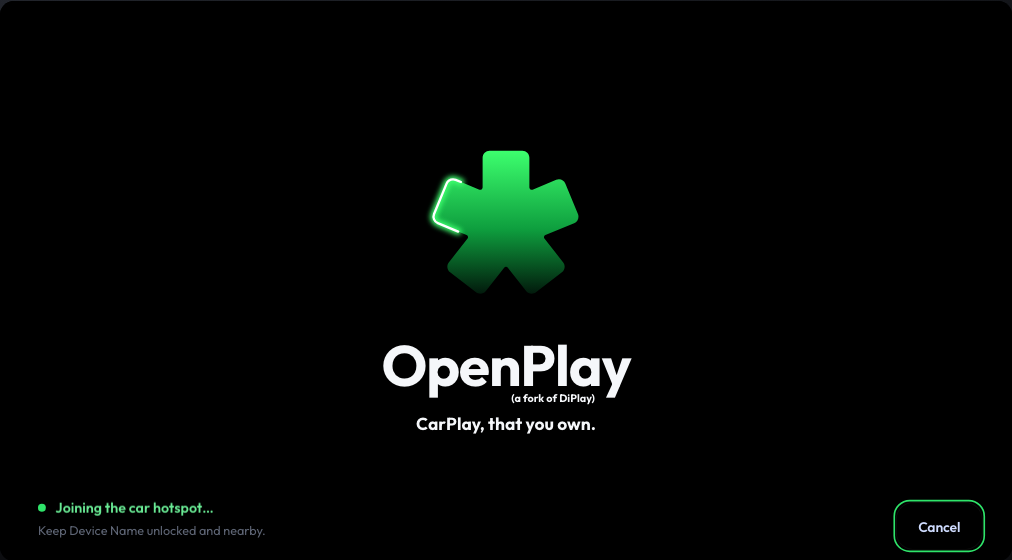
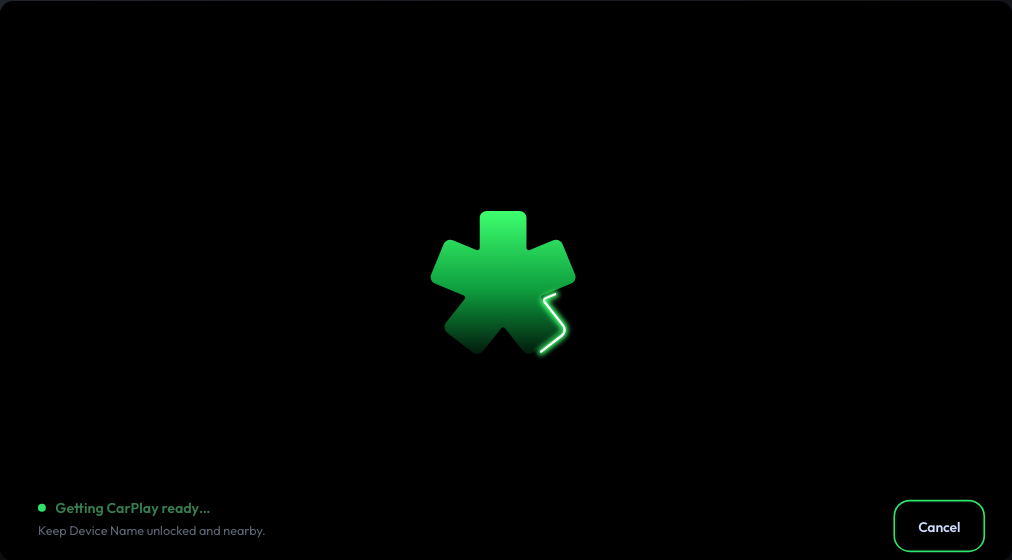
Show only the animated mark on the loading screen; crossfade status text
- The loading screen drops the OpenPlay wordmark. It is the animated mark
  alone, with the status bottom-left and Cancel bottom-right.
- At boot, when the splash turns into loading, the wordmark fades out and
  the mark glides to the centre.
- Status messages crossfade (160 ms out, 240 ms in) instead of sliding up.
- Morphs handle the missing twins:
  - Loading to Home: the mark flies to Home and the wordmark fades in.
  - Home to loading: only the mark moves; Home's wordmark fades out with
    the rest of Home. retire() now takes the list of shared parts.
- selftest.html checks that the loading screen has no wordmark.

Changed region(s): [[0.3676, 0.2429, 0.6433, 0.7893], [0.0613, 0.8804, 0.2144, 0.9411]]

diff --git a/design/ui-library/prototype.js b/design/ui-library/prototype.js
@@ -259,18 +259,45 @@
 
   /* ---------- Brand stage: splash and loading screen ---------- */
 
-  function brandStage(s, { filled, tone, text, loading }) {
-    const hint = s.connectionMode === "USB" ? "Keep the cable plugged in and the iPhone unlocked." : `Keep ${esc(s.iphone)} unlocked and nearby.`;
-    return `
-      <div class="scr-brand">
-        <div class="dp-splash${loading ? " is-loading" : ""}" data-dp-splash="${filled ? "filled" : ""}">
+  // The splash shows the wordmark; the loading screen is the animated mark alone.
+  const wordmarkAfter = () => `
           <div class="dp-splash__after dp-wordmark">
             <div class="dp-wordmark__lockup">
               <div class="dp-wordmark__name">OpenPlay</div>
               <div class="dp-wordmark__fork">(a fork of DiPlay)</div>
             </div>
             <div class="dp-wordmark__tagline">CarPlay, that you own.</div>
-          </div>
+          </div>`;
+
+  // Boot turning into loading: the wordmark fades out, then the mark glides to the centre.
+  function dropWordmark(splash) {
+    const after = splash.querySelector(".dp-splash__after");
+    if (!after) return;
+    const svg = splash.querySelector(".dp-splash__svg");
+    const reduce = matchMedia("(prefers-reduced-motion: reduce)").matches;
+    const settle = () => {
+      const before = svg.getBoundingClientRect();
+      after.remove();
+      const now = svg.getBoundingClientRect();
+      if (reduce) return;
+      // Rects are in screen pixels; the head-unit frame is scaled.
+      const screen = splash.closest(".hu__screen");
+      const k = screen ? screen.getBoundingClientRect().width / screen.offsetWidth : 1;
+      svg.animate([{ transform: `translateY(${(before.top - now.top) / (k || 1)}px)` }, { transform: "none" }], {
+        duration: 650,
+        easing: "cubic-bezier(0.22, 1, 0.36, 1)",
+      });
+    };
+    if (reduce) return settle();
+    after.animate([{ opacity: 1 }, { opacity: 0 }], { duration: 300, easing: "ease-out", fill: "forwards" }).finished.then(settle, settle);
+  }
+
+  function brandStage(s, { filled, tone, text, loading }) {
+    const hint = s.connectionMode === "USB" ? "Keep the cable plugged in and the iPhone unlocked." : `Keep ${esc(s.iphone)} unlocked and nearby.`;
+    return `
+      <div class="scr-brand">
+        <div class="dp-splash${loading ? " is-loading" : ""}" data-dp-splash="${filled ? "filled" : ""}">
+          ${loading ? "" : wordmarkAfter()}
         </div>
       </div>
       <div class="scr-corner">
@@ -282,15 +309,28 @@
       </div>`;
   }
 
+  // The status text crossfades to the next message: out 160ms, swap, in 240ms. A newer
+  // call cancels the running fade, and the latest text always wins.
   function setStatus(el, tone, text) {
     const line = el.querySelector(".dp-statusline");
     const label = line.querySelector(".dp-statusline__text");
     line.dataset.tone = tone;
-    if (label.textContent === text) return;
-    label.textContent = text;
-    label.classList.remove("is-changing");
-    void label.offsetWidth;
-    label.classList.add("is-changing");
+    label.dataset.next = text;
+    if (label.textContent === text && !label.getAnimations().length) return;
+    if (matchMedia("(prefers-reduced-motion: reduce)").matches) {
+      label.textContent = text;
+      return;
+    }
+    label.getAnimations().forEach((a) => a.cancel());
+    const out = label.animate([{ opacity: 1 }, { opacity: 0 }], { duration: 160, easing: "ease-in", fill: "forwards" });
+    out.finished.then(
+      () => {
+        label.textContent = label.dataset.next;
+        out.cancel();
+        label.animate([{ opacity: 0 }, { opacity: 1 }], { duration: 240, easing: "ease-out" });
+      },
+      () => {}, // cancelled by a newer message
+    );
   }
 
   // Runs the connection on a brand stage: stages tick through the corner status while the
@@ -300,6 +340,7 @@
     ctx.state.failed = false;
     const splash = el.querySelector(".dp-splash");
     splash.classList.add("is-loading");
+    dropWordmark(splash);
     el.querySelectorAll(".scr-corner[hidden], .scr-corner__hint[hidden]").forEach((c) => c.removeAttribute("hidden"));
     const cancel = el.querySelector('[data-act="cancel-connect"]');
     if (DP.focus.scope === el) DP.focus.set(cancel);
@@ -652,7 +693,14 @@
       for (const [a, b] of pairs) {
         const src = from.querySelector(a);
         const dst = to.querySelector(b);
-        if (!src || !dst) continue;
+        if (!dst) continue;
+        if (!src) {
+          // Coming from the icon-only loading screen: the wordmark has no twin, so it fades in.
+          dst.animate([{ opacity: 0, transform: "translateY(14px)" }, { opacity: 1, transform: "none" }], {
+            duration: 600, delay: 250, easing: "cubic-bezier(0.22, 1, 0.36, 1)", fill: "backwards",
+          });
+          continue;
+        }
         const r1 = src.getBoundingClientRect();
         const r2 = dst.getBoundingClientRect();
         const dx = (r1.left + r1.width / 2 - (r2.left + r2.width / 2)) / k;
@@ -695,14 +743,17 @@
     function morphHomeGsap(from) {
       const gsap = DP.libs.gsap;
       const Flip = window.Flip;
-      const text = [".dp-wordmark__name", ".dp-wordmark__fork", ".dp-wordmark__tagline"];
+      const all = [".dp-wordmark__name", ".dp-wordmark__fork", ".dp-wordmark__tagline"];
+      // The boot splash carries the wordmark; the icon-only loading screen does not.
+      const text = all.filter((sel) => from.querySelector(sel));
       text.forEach((sel, i) => (from.querySelector(sel).dataset.flipId = `wm-${i}`));
-      const flipState = Flip.getState(from.querySelectorAll("[data-flip-id]"));
+      const flipState = text.length ? Flip.getState(from.querySelectorAll("[data-flip-id]")) : null;
       const markFrom = from.querySelector(".dp-splash__fill").getBoundingClientRect();
 
       render("home", {}, { keep: from, enter: false, vt: false });
       const to = current;
       text.forEach((sel, i) => (to.querySelector(sel).dataset.flipId = `wm-${i}`));
+      const fadeIn = all.filter((sel) => !text.includes(sel)).map((sel) => to.querySelector(sel));
       const mark = to.querySelector(".dp-wordmark__mark");
       const markTo = mark.getBoundingClientRect();
       const k = host.getBoundingClientRect().width / host.offsetWidth || 1;
@@ -714,7 +765,8 @@
           gsap.set([mark, ...to.querySelectorAll("[data-flip-id]")], { clearProps: "transform,filter" });
         },
       });
-      tl.add(Flip.from(flipState, { targets: to.querySelectorAll("[data-flip-id]"), duration: 0.9, ease: "expo.out", scale: true }), 0);
+      if (flipState) tl.add(Flip.from(flipState, { targets: to.querySelectorAll("[data-flip-id]"), duration: 0.9, ease: "expo.out", scale: true }), 0);
+      if (fadeIn.length) tl.from(fadeIn, { opacity: 0, y: 14, duration: 0.6, stagger: 0.06, ease: "expo.out" }, 0.25);
       tl.fromTo(
         mark,
         {
@@ -736,20 +788,21 @@
     // The screen being left: its shared parts hide at once (their twins are flying), the
     // rest fades out over 300ms instead of vanishing, then it is removed.
     const SHARED = ".dp-splash__svg, .dp-wordmark__mark, .dp-wordmark__lockup > *, .dp-wordmark__tagline";
-    function retire(el) {
+    // `shared` names only the parts that have a twin on the next screen; anything without
+    // one (Home's wordmark when going to the icon-only loading screen) fades with the rest.
+    function retire(el, shared = SHARED) {
       el.classList.add("is-retiring");
       delete el.dataset.dpFocusScope;
-      el.querySelectorAll(SHARED).forEach((s) => (s.style.visibility = "hidden"));
+      el.querySelectorAll(shared).forEach((s) => (s.style.visibility = "hidden"));
       const done = () => el.remove();
       if (matchMedia("(prefers-reduced-motion: reduce)").matches) return done();
       el.animate([{ opacity: 1 }, { opacity: 0 }], { duration: 300, easing: "ease-out", fill: "forwards" }).finished.then(done, done);
     }
 
     /*
-     * Home -> loading screen: the reverse of the splash morph. The wordmark on the loading
-     * screen starts where it sits on Home and glides to the centre; the mark grows from its
-     * Home size. The device card and button fade with Home. Needs GSAP (Flip); without it
-     * the loading screen just slides in.
+     * Home -> loading screen. The loading screen is the mark alone, so only the mark moves:
+     * it grows from its Home size to the centre. Home's wordmark, device card and button
+     * fade out with Home. Needs GSAP; without it the loading screen just slides in.
      */
     function morphToLoading(params) {
       const from = current;
@@ -759,28 +812,22 @@
       if (reduce || !DP.libs.gsap || !from?.matches(".scr-home")) return render("connecting", params);
 
       const gsap = DP.libs.gsap;
-      const Flip = window.Flip;
-      const text = [".dp-wordmark__name", ".dp-wordmark__fork", ".dp-wordmark__tagline"];
-      text.forEach((sel, i) => (from.querySelector(sel).dataset.flipId = `wm-${i}`));
-      const flipState = Flip.getState(from.querySelectorAll("[data-flip-id]"));
       const markFrom = from.querySelector(".dp-wordmark__mark").getBoundingClientRect();
 
       render("connecting", params, { keep: from, enter: false, vt: false });
       const to = current;
-      text.forEach((sel, i) => (to.querySelector(sel).dataset.flipId = `wm-${i}`));
       const svg = to.querySelector(".dp-splash__svg");
       // The splash SVG is padded evenly round the mark, so its centre is the mark's centre.
       const markTo = to.querySelector(".dp-splash__fill").getBoundingClientRect();
       const k = host.getBoundingClientRect().width / host.offsetWidth || 1;
-      retire(from);
+      retire(from, ".dp-wordmark__mark");
 
       const tl = gsap.timeline({
         onComplete: () => {
           to.classList.remove("is-morphing");
-          gsap.set([svg, ...to.querySelectorAll("[data-flip-id]")], { clearProps: "transform" });
+          gsap.set(svg, { clearProps: "transform" });
         },
       });
-      tl.add(Flip.from(flipState, { targets: to.querySelectorAll("[data-flip-id]"), duration: 0.85, ease: "expo.out", scale: true }), 0);
       tl.fromTo(
         svg,
         {

diff --git a/design/ui-library/selftest.html b/design/ui-library/selftest.html
@@ -102,7 +102,7 @@ document.getElementById("f").addEventListener("load", async () => {
     const frame = d.getElementById("proto").getBoundingClientRect();
     const corner = line?.getBoundingClientRect();
     const bottomLeft = !!corner && corner.left - frame.left < frame.width * 0.1 && frame.bottom - corner.bottom < frame.height * 0.12;
-    log(!!loading?.querySelector(".dp-splash.is-loading") && line?.dataset.tone === "connecting" && bottomLeft, `Connect turns the splash into the loading screen, status bottom-left (${line?.dataset.tone}: ${line?.textContent.trim()})`);
+    log(!!loading?.querySelector(".dp-splash.is-loading") && !loading.querySelector(".dp-wordmark") && line?.dataset.tone === "connecting" && bottomLeft, `Connect turns the splash into the icon-only loading screen, status bottom-left (${line?.dataset.tone}: ${line?.textContent.trim()})`);
     await key("Escape");
     await wait(1200);
     log(screen().includes("scr-home") && !d.querySelector("#proto .scr-connecting"), `Esc on the loading screen glides back to Home (${screen()})`);

diff --git a/design/ui-library/components.css b/design/ui-library/components.css
@@ -814,7 +814,7 @@ body > .dp-toast-stack { position: fixed; }
 }
 .dp-statusline[data-tone="waiting"] .dp-dot { animation: dp-breathe 2.4s var(--dp-ease-in-out) infinite; box-shadow: none; }
 .dp-statusline[data-tone="connecting"] .dp-dot { animation: dp-pulse 1.2s var(--dp-ease-out) infinite; }
-.dp-statusline__text.is-changing { animation: dp-value-swap var(--dp-dur-base) var(--dp-ease-out); }
+/* Text changes crossfade (setStatus in prototype.js); nothing slides. */
 
 /* ---------- Splash as a loading screen ---------- */
 
